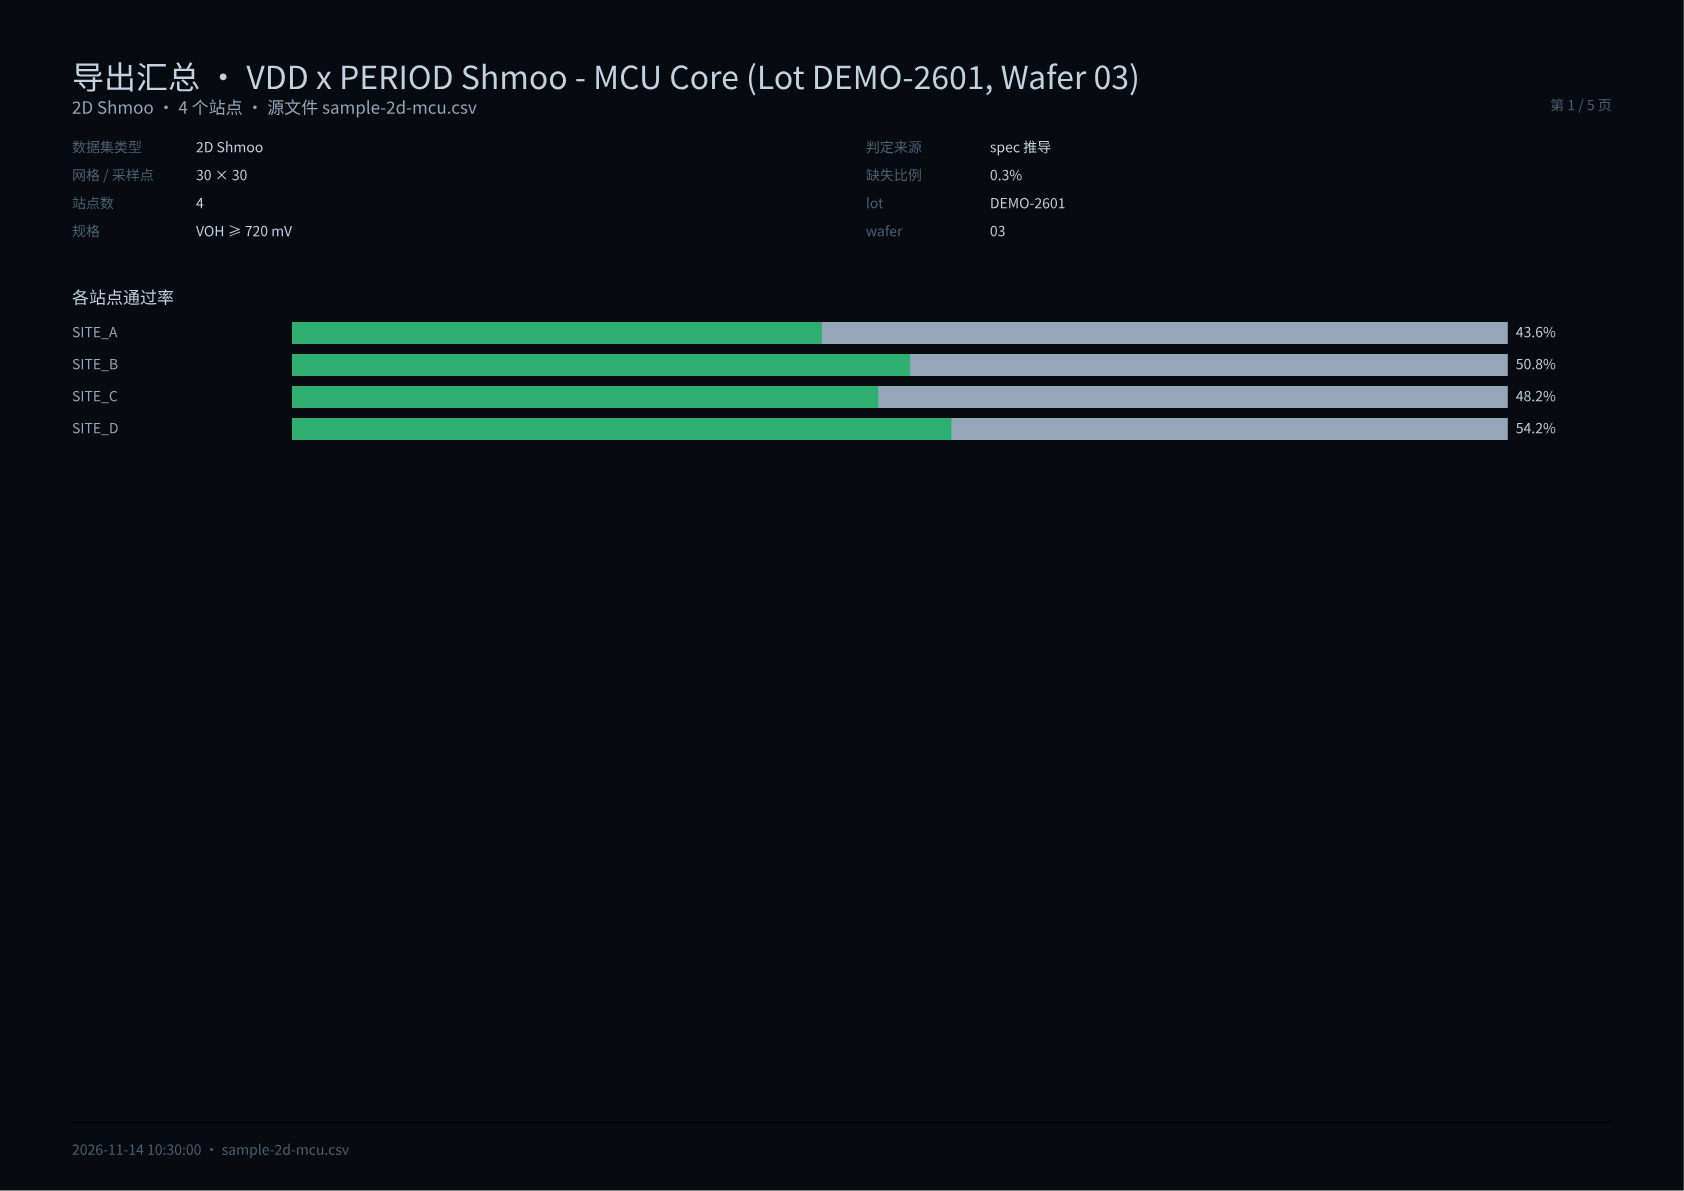
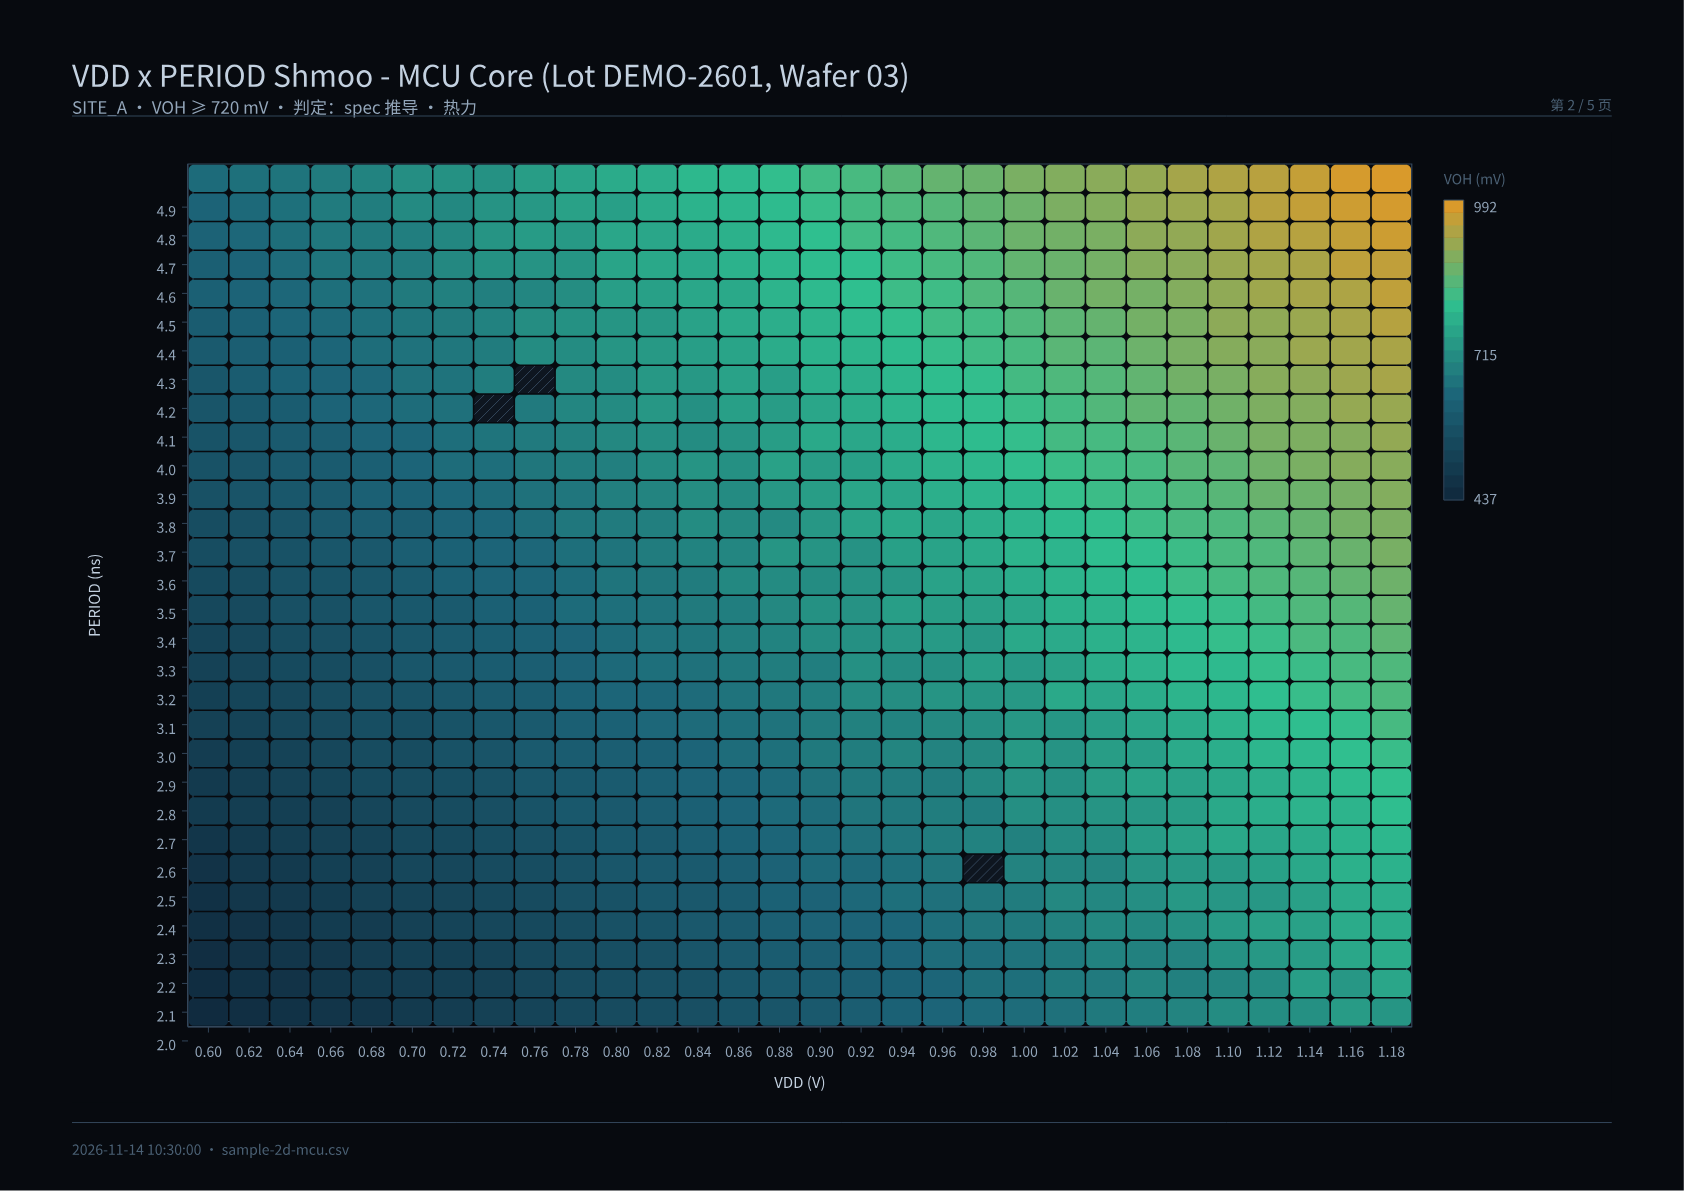
README：增加二值 / 热力 / 1D / PDF 四张实拍截图
- docs/shots 新增 readme-2d-binary.png、readme-2d-heat.png、readme-1d.png
- readme-pdf.png 由 PDF 汇总页换为站点页
- README 界面预览扩为四张图，各配一句图注
- .gitignore 同步截图例外规则，移除旧的 readme-2d.png

diff --git a/README.md b/README.md
@@ -14,13 +14,21 @@
 
 ## 界面预览
 
-![2D Shmoo 主界面](docs/shots/readme-2d.png)
+![2D 二值 Shmoo](docs/shots/readme-2d-binary.png)
 
-2D 二值 Shmoo：左侧按 site 列出点数与通过率，中间是 30 × 30 色块图（青色 PASS、红色 FAIL、斜纹为无数据），右侧可直接改 spec 上下限并即时重算。
+2D 二值 Shmoo：青色 PASS、红色 FAIL、斜纹是无数据点；spec 由「单边上下限」推导，右侧改上下限会立刻重算整张图。
 
-![PDF 汇总页](docs/shots/readme-pdf.png)
+![2D 热力 Shmoo](docs/shots/readme-2d-heat.png)
 
-导出的 PDF 汇总页：第一页汇总各站点通过率与数据集基本信息，之后每站一页矢量图，文字可选中、可搜索。
+切到「热力」模式：连续测量值按冷→暖色带映射，右侧色标标出电压范围，边缘的深色裂口就是 spec 边界穿过的行。
+
+![1D Shmoo](docs/shots/readme-1d.png)
+
+1D Shmoo（色带形态）：每一列是一个测试点，虚线为 spec 上下限，顶部直接给出最长连续通过窗口和余量。
+
+![PDF 导出页](docs/shots/readme-pdf.png)
+
+导出的 PDF 站点页：矢量绘制、文字可选中，色标、图例和页码都按打印尺寸排好。
 
 ## 这个工具是干什么的
 
